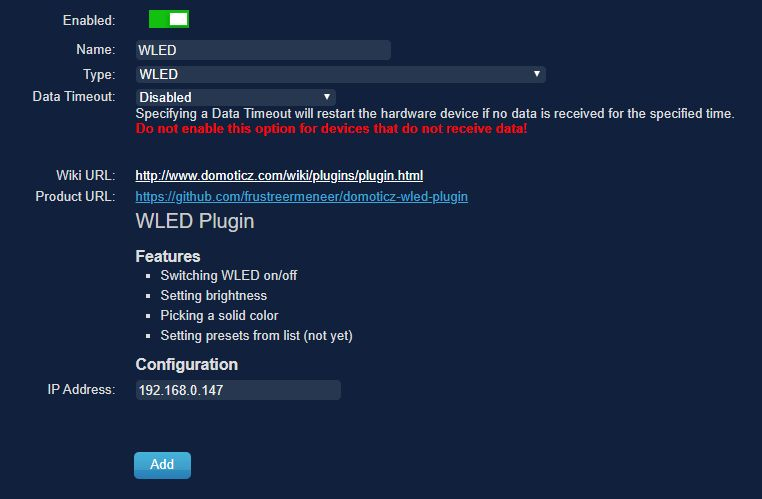
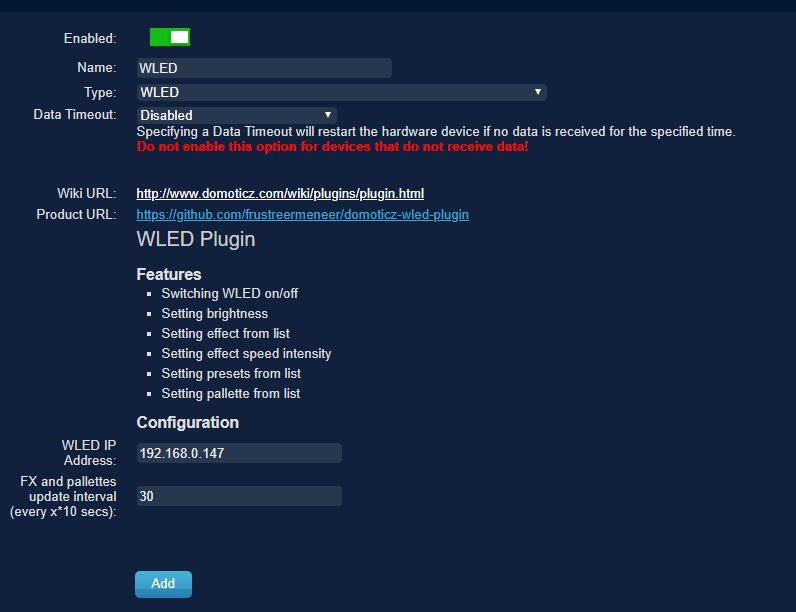
Added update interval

diff --git a/plugin.py b/plugin.py
@@ -10,8 +10,10 @@
         <ul style="list-style-type:square">
             <li>Switching WLED on/off</li>
             <li>Setting brightness</li>
-            <li>Picking a solid color</li>
-            <li>Setting presets from list (not yet)</li>
+            <li>Setting effect from list</li>
+            <li>Setting effect speed & intensity</li>
+            <li>Setting presets from list</li>
+            <li>Setting pallette from list</li>
         </ul>
         <!--h3>Devices</h3>
         <ul style="list-style-type:square">
@@ -20,8 +22,8 @@
         <h3>Configuration</h3>
     </description>
     <params>
-	<param field="Address" label="IP Address" width="200px" required="true" default=""/> The (IP) address of your WLED webserver.
-	<!--param field="UpdateInterval" label="Update interval" width="200px" required="true" default="10"/--> 
+	<param field="Address" label="WLED IP Address" width="200px" required="true" default=""/>
+	<param field="Mode1" label="FX and pallettes update interval (every x*10 secs)" width="200px" required="true" default="6"/>
     </params>
 </plugin>
 """
@@ -38,16 +40,17 @@ class BasePlugin:
     counter = 0
 
     def onStart(self):
-#        Domoticz.Log("onStart called")
         self.counter = 0
         self.Color = {}
         self.Level = 100
 
         global ipaddress
-        #global updateInterval
-        ipaddress = Parameters["Address"].strip()
-        #updateInterval = Parameters["UpdateInterval"].strip()
+        global updateInterval
 
+        ipaddress = Parameters["Address"].strip()
+        updateInterval = int(Parameters["Mode1"].strip())
+
+        
         if (len(Devices) == 0):
             Domoticz.Log("creating devices")
 
@@ -73,8 +76,6 @@ class BasePlugin:
 
     def onConnect(self, Connection, Status, Description):
         global ipaddress
-#        Domoticz.Log("onConnect called")
-#        Domoticz.Log("Name:"+Connection.Name)
  
         # er is een externe verbinding gemaakt
         # json request doen
@@ -91,7 +92,7 @@ class BasePlugin:
 
     def onMessage(self, Connection, Data):
         global jsonArray
-#       Domoticz.Log("onMessage called: "+Connection.Name )
+        global updateInterval
         
         # we krijgen antwoord terug op onze request
         # json update request afhandelen
@@ -104,21 +105,20 @@ class BasePlugin:
                 strData = Data["Data"].decode("utf-8", "ignore")
 
                 jsonArray = json.loads( str(strData) ) 
-#                Domoticz.Log( "jsonArray:"+str(jsonArray) )
 
                 if( len( jsonArray ) ):
                     UpdateStatusInDomoticz()
                     if( self.counter == 0 ):
                         UpdateEffectsInDomoticz()
                         UpdatePalettesInDomoticz()
-                    
+
             self.counter = self.counter + 1
 
-            if( self.counter >= 10 ):
+            if( self.counter >= updateInterval ):
                 self.counter = 0
 
     def onCommand(self, Unit, Command, Level, Color):
-        Domoticz.Log("onCommand called for Unit " + str(Unit) + ": Command '" + str(Command) + "', Level: " + str(Level) + "', Color: " + str(Color) )
+#        Domoticz.Log("onCommand called for Unit " + str(Unit) + ": Command '" + str(Command) + "', Level: " + str(Level) + "', Color: " + str(Color) )
 
         # palettes keuze
         if( Unit == 1 ):
@@ -142,23 +142,23 @@ class BasePlugin:
         if( Unit == 3 ):
             if( Command == "Set Level" ):
                 self.Level = Level if Level < 100 else 100
-                UpdateDevice(3,1,self.Level,self.Color)
+                UpdateDevice(3,1,self.Level) 		#,self.Color)
                 doWLEDRequest( "/win&A="+str(int(self.Level*2.55)) )
 
             if( Command == "Set Color" ):		#set kleur en level
                 self.Color = Color;
                 self.Level = Level
-                Domoticz.Log( "color:" + str(self.Color) )
+                Domoticz.Log( "Color:" + str(self.Color) )
                 parsedColor = json.loads(self.Color)
                 UpdateDevice(3,1,self.Level,self.Color)
                 doWLEDRequest( "/win&FX=0&A="+str(int(self.Level*2.55))+"&R="+str(parsedColor["r"])+"&G="+str(parsedColor["g"])+"&B="+str(parsedColor["b"] ) )
 
             if( Command == "On" ):
-                UpdateDevice(3,1,self.Level,self.Color)
+                UpdateDevice(3,1,self.Level) 		#,self.Color)
                 doWLEDRequest( "/win&T=1&A="+str(int(self.Level*2.55)) )
 
             if( Command == "Off" ):
-                UpdateDevice(3,0, self.Level,self.Color)
+                UpdateDevice(3,0, self.Level) 		#,self.Color)
                 doWLEDRequest( "/win&T=0&A="+str(int(self.Level*2.55)) )
 
         # preset keuze
@@ -183,8 +183,6 @@ class BasePlugin:
                 doWLEDRequest( "/win&IX="+str(int(Level*2.55)) )
 
     def onHeartbeat(self):
-#        global updateInterval
-#        Domoticz.Log("onHeartbeat called:" + str(self.counter) ) #+str(len(Devices[2].Options["LevelNames"]))+" - "+str(self.counter))
         getWLEDStatus()
 
 
@@ -234,12 +232,16 @@ def UpdateDevice(Unit, nValue, sValue, Color=""):
     # Make sure that the Domoticz device still exists (they can be deleted) before updating it.
     if (Unit in Devices):
         if (Devices[Unit].nValue != nValue) or (Devices[Unit].sValue != sValue) or (Devices[Unit].Color != Color):
-            Devices[Unit].Update(nValue=nValue, sValue=str(sValue), Color=str(Color) )
-            #Domoticz.Log("Update "+str(nValue)+":'"+str(sValue)+"' ("+Devices[Unit].Name+")")
+            if( Color ):
+                Devices[Unit].Update(nValue=nValue, sValue=str(sValue), Color=str(Color) )
+            else:
+                Devices[Unit].Update(nValue=nValue, sValue=str(sValue) )
     return
 
 def UpdateEffectsInDomoticz():
     global jsonArray
+
+#    Domoticz.Log("updateEffects")
 
     LevelNames = "Off|"
     LevelActions = "|"
@@ -259,10 +261,10 @@ def UpdateEffectsInDomoticz():
     sValue = Devices[2].sValue;
     Devices[2].Update(nValue = nValue, sValue = sValue, Options = dictOptions)
 
-#    Domoticz.Log("updateEffectsInDomoticz done!")
-
 def UpdatePalettesInDomoticz():
     global jsonArray
+
+#    Domoticz.Log("updatePallettes")
 
     LevelNames = "Off|"
     LevelActions = "|"
@@ -281,10 +283,11 @@ def UpdatePalettesInDomoticz():
     nValue = Devices[1].nValue;
     sValue = Devices[1].sValue;
     Devices[1].Update(nValue = nValue, sValue = sValue, Options = dictOptions)
-    
-#    Domoticz.Log("updatePalettesInDomoticz done!")
+
 
 def UpdatePresetsInDomoticz():
+#    Domoticz.Log("updatePresets")
+
     LevelNames = "None|"
     LevelActions = "|"
 
@@ -306,7 +309,7 @@ def UpdatePresetsInDomoticz():
 
 def UpdateStatusInDomoticz():
     global jsonArray
-#    Domoticz.Log( str(jsonArray['state']) )
+#    Domoticz.Log("updateStatus")
 
     brightness = jsonArray['state']['bri']
 #    Domoticz.Log( "brightness:" + str(brightness) )
